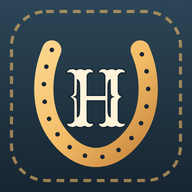
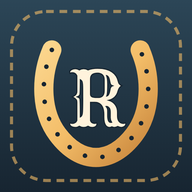
Add files via upload

Changed region(s): [[0.3438, 0.3438, 0.6562, 0.6875]]

diff --git a/index.html b/index.html
@@ -7,8 +7,8 @@
 <meta name="apple-mobile-web-app-capable" content="yes">
 <meta name="mobile-web-app-capable" content="yes">
 <meta name="apple-mobile-web-app-status-bar-style" content="black-translucent">
-<meta name="apple-mobile-web-app-title" content="Herria">
-<title>Herria</title>
+<meta name="apple-mobile-web-app-title" content="Ranchfolk">
+<title>Ranchfolk</title>
 <link rel="manifest" href="manifest.json">
 <link rel="icon" type="image/png" sizes="192x192" href="icon-192.png">
 <link rel="apple-touch-icon" href="icon-192.png">
@@ -494,6 +494,7 @@ textarea.input{min-height:90px;resize:vertical}
 .fx-mini small{font-size:12px;color:#4D6473;overflow:hidden;text-overflow:ellipsis;white-space:nowrap}
 .fx-mini .fx-feat{padding:2px 6px;font-size:11px}
 .fx-sell-cta{display:block;width:100%;margin-top:10px;padding:11px 12px;border:1.5px dashed #C7843B;border-radius:12px;background:#FFF6E4;color:#172531;font-weight:700;font-size:14px;text-align:left}
+@media (max-width:350px){.topbar .logo{font-size:24px!important}}
 /* ---------- Verificada ---------- */
 .vbadge{display:inline-flex;align-items:center;justify-content:center;width:1.05em;height:1.05em;margin-left:.3em;border-radius:50%;background:#C7843B;color:#fff!important;font-size:.72em;font-weight:900;line-height:1;vertical-align:.08em;box-shadow:0 0 0 1.5px #F3BD68 inset;font-family:Inter,sans-serif}
 /* ---------- Aviso push ---------- */
@@ -888,7 +889,7 @@ async function compressImage(file, max = 1440) {
 
 // ---------- estado ----------
 if (SUPABASE_URL.startsWith('PEGA') || !window.supabase) {
-  $app.append(h('div', { class: 'empty' }, h('span', { class: 'logo' }, 'Herria'),
+  $app.append(h('div', { class: 'empty' }, h('span', { class: 'logo' }, 'Ranchfolk'),
     window.supabase ? 'Falta poner los datos de Supabase en el archivo.' : 'No se pudo cargar. Revisa tu conexión y recarga.'));
   throw new Error('config');
 }
@@ -912,7 +913,7 @@ async function loadMe() {
   state.blocked = new Set(bl.error ? [] : (bl.data || []).map(b => b.blocked_id));
 }
 const GUEST = { id: '__guest__', username: 'invitado', guest: true };
-// Cuentas verificadas ✓ (solo Herria las marca desde Supabase)
+// Cuentas verificadas ✓ (solo Ranchfolk las marca desde Supabase)
 let VERIFIED = new Set();
 try { VERIFIED = new Set(JSON.parse(localStorage.getItem('herria_verif') || '[]')); } catch (_) {}
 async function loadVerified() {
@@ -929,7 +930,7 @@ function isGuest() { return !state.session || !state.me || state.me.guest; }
 // Si no tiene cuenta, invita a registrarse. Devuelve true cuando hay que detenerse.
 function needLogin(why) {
   if (!isGuest()) return false;
-  const close = openSheet('Únete a Herria', h('div', { class: 'sheet-body join' },
+  const close = openSheet('Únete a Ranchfolk', h('div', { class: 'sheet-body join' },
     h('div', { class: 'join-ico', icon: 'shotsbig' }),
     h('b', {}, why || 'Crea tu cuenta para participar'),
     h('p', {}, 'Es gratis y toma un minuto. Así puedes dar ajúas, comentar, subir tus fotos y mandar mensajes.'),
@@ -1230,10 +1231,10 @@ function renderAuth() {
     err,
     h('button', { class: 'btn', type: 'submit' }, isLogin ? 'Entrar' : 'Crear cuenta'),
     !isLogin && h('p', { class: 'hint', style: 'margin:12px 0 0;text-align:center' }, 'Al crear tu cuenta aceptas las ',
-      h('button', { type: 'button', class: 'linkbtn', style: 'text-decoration:underline;font-size:13px', onclick: openRules }, 'reglas y privacidad'), ' de Herria.')
+      h('button', { type: 'button', class: 'linkbtn', style: 'text-decoration:underline;font-size:13px', onclick: openRules }, 'reglas y privacidad'), ' de Ranchfolk.')
   );
   $app.append(h('div', { class: 'auth' },
-    h('div', { class: 'logo' }, 'Herria'),
+    h('div', { class: 'logo' }, 'Ranchfolk'),
     h('p', { class: 'lead' }, 'La vida de rancho, en un solo lugar'),
     form,
     h('button', { type: 'button', class: 'linkbtn', style: 'margin-top:18px;text-decoration:underline;font-size:14px', onclick: () => go('feed') }, 'Seguir viendo sin cuenta'),
@@ -1244,7 +1245,7 @@ function renderAuth() {
 
 async function renderFeed() {
   const main = h('main');
-  $app.append(h('header', { class: 'topbar' }, h('div', { class: 'logo' }, 'Herria'), h('div', { class: 'top-actions' }, menuButton(), bellButton(), dmButton())), main);
+  $app.append(h('header', { class: 'topbar' }, h('div', { class: 'logo' }, 'Ranchfolk'), h('div', { class: 'top-actions' }, menuButton(), bellButton(), dmButton())), main);
 
   const stories = h('div', { class: 'stories' });
   const chips = h('div', { class: 'chips' }, ['Todo', ...CATEGORIES].map(c =>
@@ -1283,7 +1284,7 @@ async function renderFeed() {
   } catch (e) { list.replaceChildren(h('div', { class: 'empty' }, friendlyError(e))); }
 }
 
-// ---------- Sonidos de Herria (hechos desde cero con el teléfono, sin grabaciones) ----------
+// ---------- Sonidos de Ranchfolk (hechos desde cero con el teléfono, sin grabaciones) ----------
 const SFX = (() => {
   let ctx = null, master = null, nbuf = null;
   const KEY = 'herria_sonidos';
@@ -1356,6 +1357,11 @@ const SFX = (() => {
       clearInterval(loopTimer); loopTimer = null;
       if (ok) setTimeout(() => this.play('subidaFin'), 350);
     },
+    // Android/Chrome no deja sonar nada hasta que la persona toca la pantalla: al primer toque se "despierta" el audio
+    unlock() {
+      try { const c = ac(); if (!c) return; const b = c.createBuffer(1, 1, 22050), s = c.createBufferSource(); s.buffer = b; s.connect(c.destination); s.start(0); } catch (_) {}
+    },
+    get ready() { return !!ctx && ctx.state === 'running'; },
     get on() { return on; },
     set on(v) { on = !!v; try { localStorage.setItem(KEY, on ? '1' : '0'); } catch (_) {} if (!on) this.stopUpload(false); }
   };
@@ -1460,7 +1466,7 @@ async function sharePost(p) {
   const owner = (p.shared_id && p.orig && p.orig.profiles) || p.profiles || {};
   const outside = async () => {
     const url = postLink(origId);
-    const data = { title: 'Herria', text: (p.caption || 'Mira esto en Herria') + '\n', url };
+    const data = { title: 'Ranchfolk', text: (p.caption || 'Mira esto en Ranchfolk') + '\n', url };
     try { if (navigator.share) await navigator.share(data); else { await navigator.clipboard.writeText(url); toast('Enlace copiado'); } } catch (_) {}
   };
   const opt = (icon, title, sub, fn) => h('button', { class: 'share-opt', onclick: fn }, h('span', { class: 'so-ico' }, icon), h('div', {}, h('b', {}, title), h('small', {}, sub)));
@@ -1468,7 +1474,7 @@ async function sharePost(p) {
   const close = openSheet('Compartir', body);
   const home = () => body.replaceChildren(...[
     HAS_SHARE ? opt('🔁', 'Compartir en mi perfil', 'Sale en tu perfil y en el inicio', () => { if (needLogin('Crea tu cuenta para compartir')) return; toProfile(); }) : null,
-    opt('💬', 'Enviar por mensaje', 'A alguien de Herria', () => { if (needLogin('Crea tu cuenta para mandar mensajes')) return; toChat(); }),
+    opt('💬', 'Enviar por mensaje', 'A alguien de Ranchfolk', () => { if (needLogin('Crea tu cuenta para mandar mensajes')) return; toChat(); }),
     opt('📤', 'Más opciones', 'WhatsApp, Facebook, copiar enlace…', () => { close(); outside(); })].filter(Boolean));
   const toProfile = () => {
     const ta = h('textarea', { class: 'input', maxlength: '1000', placeholder: 'Di algo sobre esto… (opcional)', style: 'min-height:80px' });
@@ -1639,14 +1645,14 @@ function finishWelcome() { setFlag('welcomed'); state.view = 'feed'; render(); }
 
 function welcomeCard() {
   if (isGuest()) return h('section', { class: 'welcome-card', 'aria-label': 'Únete' },
-    h('div', { class: 'wc-kicker' }, 'Estás viendo'), h('div', { class: 'logo', style: 'font-size:26px' }, 'Herria'),
+    h('div', { class: 'wc-kicker' }, 'Estás viendo'), h('div', { class: 'logo', style: 'font-size:26px' }, 'Ranchfolk'),
     h('p', { class: 'wc-lead' }, 'La vida de rancho, en un solo lugar: bailes, caballos, outfits y el día a día del rancho. Mira todo lo que quieras; para dar ajúa, comentar y subir lo tuyo, crea tu cuenta gratis.'),
     h('button', { class: 'btn', style: 'margin-top:6px', onclick: () => { state.authMode = 'signup'; go('auth'); } }, 'Crear mi cuenta'));
   if (getFlag('card_closed')) return null;
   const card = h('section', { class: 'welcome-card', 'aria-label': 'Bienvenida' });
   const tip = (icon, title, text) => h('div', { class: 'wc-tip' }, h('span', { class: 'wc-ico', icon }), h('div', {}, h('b', {}, title), h('small', {}, text)));
   card.append(
-    h('div', { class: 'wc-head' }, h('div', {}, h('div', { class: 'wc-kicker' }, 'Bienvenido a'), h('div', { class: 'logo', style: 'font-size:26px' }, 'Herria')),
+    h('div', { class: 'wc-head' }, h('div', {}, h('div', { class: 'wc-kicker' }, 'Bienvenido a'), h('div', { class: 'logo', style: 'font-size:26px' }, 'Ranchfolk')),
       h('button', { class: 'iconbtn plain', 'aria-label': 'Cerrar bienvenida', icon: 'close', onclick: () => { setFlag('card_closed'); card.remove(); } })),
     h('p', { class: 'wc-lead' }, 'La vida de rancho, en un solo lugar. Así funciona:'),
     h('div', { class: 'wc-tips' },
@@ -1746,7 +1752,7 @@ async function renderWelcome() {
       } catch (ex) { err.textContent = friendlyError(ex); save.disabled = false; }
     } },
       h('h1', { class: 'wl-title' }, 'Preséntanos a tu animal'),
-      h('p', { class: 'wl-sub' }, 'Tu caballo, tu vaca o tu perro también tienen perfil en Herria. La gente los puede seguir.'),
+      h('p', { class: 'wl-sub' }, 'Tu caballo, tu vaca o tu perro también tienen perfil en Ranchfolk. La gente los puede seguir.'),
       prev, fileIn,
       h('label', { for: 'wl_an', class: 'btn ghost small', style: 'display:inline-flex;align-items:center;cursor:pointer;margin:0 auto 22px' }, 'Elegir foto'),
       h('div', { class: 'field', style: 'text-align:left' }, h('label', { for: 'wl_n' }, '¿Cómo se llama?'), name),
@@ -1815,7 +1821,7 @@ async function unblockUser(userId, username) {
 function openRules() {
   const sec = (title, items) => h('section', { class: 'rules-sec' }, h('h4', {}, title), h('ul', {}, ...items.map(t => h('li', {}, t))));
   const body = h('div', { class: 'sheet-body rules' },
-    h('p', {}, 'Herria es para compartir la vida de rancho con respeto. Al usar la app aceptas estas reglas.'),
+    h('p', {}, 'Ranchfolk es para compartir la vida de rancho con respeto. Al usar la app aceptas estas reglas.'),
     sec('Lo que no se permite', [
       'Desnudos o contenido sexual.',
       'Maltrato animal, violencia o peleas.',
@@ -1829,12 +1835,12 @@ function openRules() {
       'Si alguien te molesta, bloquéalo: ya no verás nada suyo.']),
     sec('Tu privacidad', [
       'Guardamos tu correo, tu nombre, tu usuario, tu foto y lo que publicas.',
-      'Cualquier persona puede ver tus publicaciones en Herria, aunque no tenga cuenta; los mensajes son privados dentro de la app.',
+      'Cualquier persona puede ver tus publicaciones en Ranchfolk, aunque no tenga cuenta; los mensajes son privados dentro de la app.',
       'Ojo: quien tenga el enlace directo de una foto o video la puede abrir, así que no subas nada privado.',
-      'Tus datos se guardan en Supabase, el servicio que usa Herria. No los vendemos ni los compartimos.',
+      'Tus datos se guardan en Supabase, el servicio que usa Ranchfolk. No los vendemos ni los compartimos.',
       'Tú puedes borrar tus publicaciones cuando quieras.',
       'Para borrar tu cuenta completa, escríbenos y la borramos con todo lo que subiste.']),
-    sec('Contacto', [CONTACT || 'Escríbenos por mensaje a la página de Herria en Facebook.']));
+    sec('Contacto', [CONTACT || 'Escríbenos por mensaje a la página de Ranchfolk en Facebook.']));
   openSheet('Reglas y privacidad', body);
 }
 
@@ -2604,7 +2610,7 @@ async function renderProfile() {
         blocked ? h('button', { class: 'btn ghost', onclick: () => unblockUser(id, prof.username) }, 'Desbloquear')
           : h('button', { class: 'btn ghost', style: 'flex:0 0 52px', 'aria-label': 'Más opciones', onclick: () => {
               const close = openSheet('@' + prof.username, h('div', { class: 'sheet-body' },
-                h('button', { class: 'mn-row', onclick: async () => { close(); const url = location.origin + location.pathname; try { if (navigator.share) await navigator.share({ title: 'Herria', text: 'Mira el perfil de @' + prof.username + ' en Herria', url }); } catch (_) {} } }, h('span', { class: 'mn-emo sm' }, '📤'), h('div', {}, h('b', {}, 'Compartir perfil'))),
+                h('button', { class: 'mn-row', onclick: async () => { close(); const url = location.origin + location.pathname; try { if (navigator.share) await navigator.share({ title: 'Ranchfolk', text: 'Mira el perfil de @' + prof.username + ' en Ranchfolk', url }); } catch (_) {} } }, h('span', { class: 'mn-emo sm' }, '📤'), h('div', {}, h('b', {}, 'Compartir perfil'))),
                 h('button', { class: 'mn-row', onclick: async () => { close(); if (needLogin('Crea tu cuenta para bloquear')) return; if (await blockUser(id, prof.username)) go('feed'); } }, h('span', { class: 'mn-emo sm' }, '🚫'), h('div', {}, h('b', {}, 'Bloquear'), h('small', {}, 'No verás sus publicaciones ni te podrá escribir')))));
             } }, '⋯'));
 
@@ -2637,7 +2643,7 @@ async function renderProfile() {
   const ficha = h('section', { class: 'pf-card' },
     h('div', { class: 'pf-card-head' }, h('div', { class: 'lbl' }, 'Ficha del ranchero'), isMe && h('button', { class: 'linkbtn', onclick: () => editProfile(prof) }, '✏')),
     dato('🏡', prof.rancho, 'Su rancho'), dato('🐄', prof.dedica, 'A qué se dedica'), dato('🔥', prof.fierro, 'Fierro o marca del rancho'), dato('📍', prof.ubicacion),
-    desde && dato('📅', `En Herria desde ${MESES[desde.getMonth()]} ${desde.getFullYear()}`),
+    desde && dato('📅', `En Ranchfolk desde ${MESES[desde.getMonth()]} ${desde.getFullYear()}`),
     !filled && isMe && h('button', { class: 'pf-fill', onclick: () => editProfile(prof) }, '＋ Llena tu ficha: tu rancho, a qué te dedicas y tu fierro'),
     badges.length ? h('div', { class: 'pf-badges' }, badges.map(t => h('span', { class: 'pf-badge' }, t))) : null);
 
@@ -2871,7 +2877,7 @@ function editProfile(prof) {
   close = openSheet('Editar perfil', body);
 }
 
-// ---------- Menú (☰) con todo lo que se puede hacer en Herria ----------
+// ---------- Menú (☰) con todo lo que se puede hacer en Ranchfolk ----------
 function menuButton() {
   return h('button', { class: 'iconbtn dm-btn', 'aria-label': 'Menú', onclick: () => openMenu() }, h('span', { icon: 'menu', style: 'display:flex' }));
 }
@@ -2902,19 +2908,19 @@ function openMenu() {
     if (pushState() !== 'no') pushOnHere().then(on => { lab.textContent = on ? 'Activados' : (pushState() === 'denied' ? 'Bloqueados en el navegador' : 'Apagados'); });
     return b;
   }
-  const inviteRow = row('📤', 'Invitar a Herria', async () => {
+  const inviteRow = row('📤', 'Invitar a Ranchfolk', async () => {
     const url = location.origin + location.pathname;
-    const data = { title: 'Herria', text: 'Únete a Herria, la app de la vida de rancho 🤠🐎', url };
+    const data = { title: 'Ranchfolk', text: 'Únete a Ranchfolk, la app de la vida de rancho 🤠🐎', url };
     try { if (navigator.share) await navigator.share(data); else { await navigator.clipboard.writeText(url); toast('Enlace copiado'); } } catch (_) {}
   }, 'Comparte la app con tu familia y amigos');
   const help = section('❓', 'Ayuda y soporte técnico', [
-    row('📖', 'Cómo usar Herria', () => openHowTo()),
+    row('📖', 'Cómo usar Ranchfolk', () => openHowTo()),
     row('🛠', 'Reportar un problema', () => openSheet('Reportar un problema', h('div', { class: 'sheet-body', style: 'line-height:1.5' },
       h('p', {}, '¿Algo no funciona bien? Cuéntanos qué pasó y en qué pantalla.'),
-      h('p', {}, CONTACT ? 'Escríbenos a ' + CONTACT : 'Escríbenos por mensaje a la página de Herria en Facebook.'),
+      h('p', {}, CONTACT ? 'Escríbenos a ' + CONTACT : 'Escríbenos por mensaje a la página de Ranchfolk en Facebook.'),
       h('p', { style: 'color:var(--muted);font-size:14px' }, 'Si alguien te molesta, en su perfil o en el menú ⋯ de su publicación puedes reportarlo o bloquearlo.')))),
-    row('🤠', 'Acerca de Herria', () => openSheet('Acerca de Herria', h('div', { class: 'sheet-body', style: 'line-height:1.5;text-align:center' },
-      h('div', { class: 'logo', style: 'font-size:34px' }, 'Herria'),
+    row('🤠', 'Acerca de Ranchfolk', () => openSheet('Acerca de Ranchfolk', h('div', { class: 'sheet-body', style: 'line-height:1.5;text-align:center' },
+      h('div', { class: 'logo', style: 'font-size:34px' }, 'Ranchfolk'),
       h('p', {}, 'La vida de rancho, en un solo lugar: caballos, ganado, bailes, jaripeos, outfits y el día a día del rancho.'),
       h('p', { style: 'color:var(--muted);font-size:14px' }, 'Hecha en León, Guanajuato. 🇲🇽'))))]);
   const settings = section('⚙', 'Configuración y privacidad', guest ? [
@@ -2949,7 +2955,7 @@ function openMenu() {
       help, settings, inviteRow,
       guest ? h('button', { class: 'btn', style: 'width:100%;margin-top:16px', onclick: goTo(() => { state.authMode = 'signup'; go('auth'); }) }, 'Crear mi cuenta')
             : h('button', { class: 'btn ghost', style: 'width:100%;margin-top:16px', onclick: async () => { if (!confirm('¿Cerrar sesión?')) return; bg.remove(); await sb.auth.signOut(); } }, 'Cerrar sesión'),
-      h('p', { class: 'mn-foot' }, 'Herria · Vida de rancho')));
+      h('p', { class: 'mn-foot' }, 'Ranchfolk · Vida de rancho')));
   const bg = h('div', { class: 'menu-bg', onclick: (e) => { if (e.target === bg) close(); } }, panel);
   bg._close = close;
   document.body.append(bg);
@@ -2965,7 +2971,7 @@ async function openBlockedList() {
 }
 function openHowTo() {
   const it = (e, t, d) => h('div', { class: 'mn-how' }, h('span', { class: 'mn-emo sm' }, e), h('div', {}, h('b', {}, t), h('p', {}, d)));
-  openSheet('Cómo usar Herria', h('div', { class: 'sheet-body' },
+  openSheet('Cómo usar Ranchfolk', h('div', { class: 'sheet-body' },
     it('📷', 'Publicar', 'Toca el + de abajo. Elige foto o video, la sección y, si quieres, una canción.'),
     it('🌅', 'Sundowns', 'Toca "Agregar" arriba. Ponle texto, emojis y música; arrástralos con el dedo. Duran 24 horas.'),
     it('🐎', 'Rides', 'Videos verticales en pantalla completa. Desliza hacia arriba para ver el siguiente.'),
@@ -3064,7 +3070,7 @@ function openListing(l) {
   car.addEventListener('scroll', () => { const i = Math.round(car.scrollLeft / car.clientWidth); [...dots.children].forEach((d, k) => d.classList.toggle('on', k === i)); }, { passive: true });
   car.addEventListener('click', (e) => { if (e.target.tagName === 'IMG') openMediaViewer(e.target.src, 'image'); });
   const link = location.origin + location.pathname + '#l=' + l.id;
-  const share = async () => { try { if (navigator.share) await navigator.share({ title: l.title, text: `${l.title} · ${money(l.price)} en La Feria de Herria`, url: link }); else { await navigator.clipboard.writeText(link); toast('Enlace copiado'); } } catch (_) {} };
+  const share = async () => { try { if (navigator.share) await navigator.share({ title: l.title, text: `${l.title} · ${money(l.price)} en La Feria de Ranchfolk`, url: link }); else { await navigator.clipboard.writeText(link); toast('Enlace copiado'); } } catch (_) {} };
   const actions = mine ? [
     h('button', { class: 'btn', onclick: async () => { const st = l.status === 'vendido' ? 'activo' : 'vendido'; const { error } = await sb.from('listings').update({ status: st }).eq('id', l.id); if (error) return toast('No se pudo guardar'); close(); toast(st === 'vendido' ? '¡Felicidades por la venta! 🎉' : 'Anuncio activo otra vez'); if (st === 'vendido') SFX.play('ajua'); if (state.view === 'feria') render(); } }, l.status === 'vendido' ? 'Volver a poner a la venta' : '✅ Marcar como vendido'),
     h('div', { style: 'display:flex;gap:8px;margin-top:8px' },
@@ -3409,7 +3415,7 @@ function pushCard() {
   try { if (localStorage.getItem('herria_push_later') && Date.now() - Number(localStorage.getItem('herria_push_later')) < 3 * 864e5) return null; } catch (_) {}
   const card = h('div', { class: 'push-card' },
     h('span', { class: 'push-emo' }, '🔔'),
-    h('div', {}, h('b', {}, 'Que no se te pase ningún mensaje'), h('small', {}, 'Te avisamos en el teléfono aunque tengas Herria cerrada.')),
+    h('div', {}, h('b', {}, 'Que no se te pase ningún mensaje'), h('small', {}, 'Te avisamos en el teléfono aunque tengas Ranchfolk cerrada.')),
     h('div', { class: 'push-btns' },
       h('button', { class: 'btn small', onclick: async () => { if (await enablePush()) card.remove(); } }, 'Activar'),
       h('button', { class: 'btn small ghost', onclick: () => { try { localStorage.setItem('herria_push_later', String(Date.now())); } catch (_) {} card.remove(); } }, 'Ahora no')));
@@ -3706,7 +3712,18 @@ async function renderChat() {
 }
 
 // ---------- arranque ----------
-if ('serviceWorker' in navigator) navigator.serviceWorker.register('sw.js').catch(() => {});
+if ('serviceWorker' in navigator) {
+  navigator.serviceWorker.register('sw.js').catch(() => {});
+  // El aviso llegó con la app abierta: suena la campana aquí adentro
+  navigator.serviceWorker.addEventListener('message', (e) => {
+    if (!e.data || e.data.type !== 'herria-msg') return;
+    msgDing();
+    const b = document.querySelector('.msg-count'); if (b) refreshUnread(b);
+  });
+}
+// Despertar el audio con cualquier toque (cada vez que vuelves a la app también)
+['pointerdown', 'touchstart', 'keydown'].forEach(ev => document.addEventListener(ev, () => { if (!SFX.ready) SFX.unlock(); }, { passive: true, capture: true }));
+document.addEventListener('visibilitychange', () => { if (!document.hidden) { const b = document.querySelector('.msg-count'); if (b) refreshUnread(b); } });
 let started = false;
 // Botón "atrás" del teléfono: cierra lo que esté abierto, regresa al inicio, y en el inicio actualiza.
 // Botón "atrás" del teléfono: cierra lo que esté abierto y regresa al inicio.

diff --git a/sw.js b/sw.js
@@ -1,4 +1,4 @@
-// Herria: permite instalar la app. Todo se carga siempre desde internet,
+// Ranchfolk: permite instalar la app. Todo se carga siempre desde internet,
 // y la página principal siempre se revisa para que los cambios lleguen al momento.
 self.addEventListener('install', () => self.skipWaiting());
 self.addEventListener('activate', (e) => e.waitUntil(self.clients.claim()));
@@ -9,14 +9,16 @@ self.addEventListener('fetch', (e) => {
   e.respondWith(fresh ? fetch(req, { cache: 'no-cache' }).catch(() => fetch(req)) : fetch(req));
 });
 
-// Avisos en el teléfono: llega un mensaje aunque Herria esté cerrada
+// Avisos en el teléfono: llega un mensaje aunque Ranchfolk esté cerrada
 self.addEventListener('push', (e) => {
   let d = {};
   try { d = e.data ? e.data.json() : {}; } catch (_) { d = { body: e.data ? e.data.text() : '' }; }
   e.waitUntil((async () => {
     const wins = await self.clients.matchAll({ type: 'window', includeUncontrolled: true });
-    const open = wins.some(w => w.visibilityState === 'visible');   // con la app abierta ya suena la campana
-    await self.registration.showNotification(d.title || 'Herria', {
+    const open = wins.some(w => w.visibilityState === 'visible');
+    // Con la app abierta: le avisamos a la app para que suene la campana adentro
+    wins.forEach(w => { if (w.visibilityState === 'visible') { try { w.postMessage({ type: 'herria-msg', tag: d.tag || '' }); } catch (_) {} } });
+    await self.registration.showNotification(d.title || 'Ranchfolk', {
       body: d.body || 'Tienes un mensaje nuevo',
       icon: 'icon-192.png',
       badge: 'icon-192.png',
